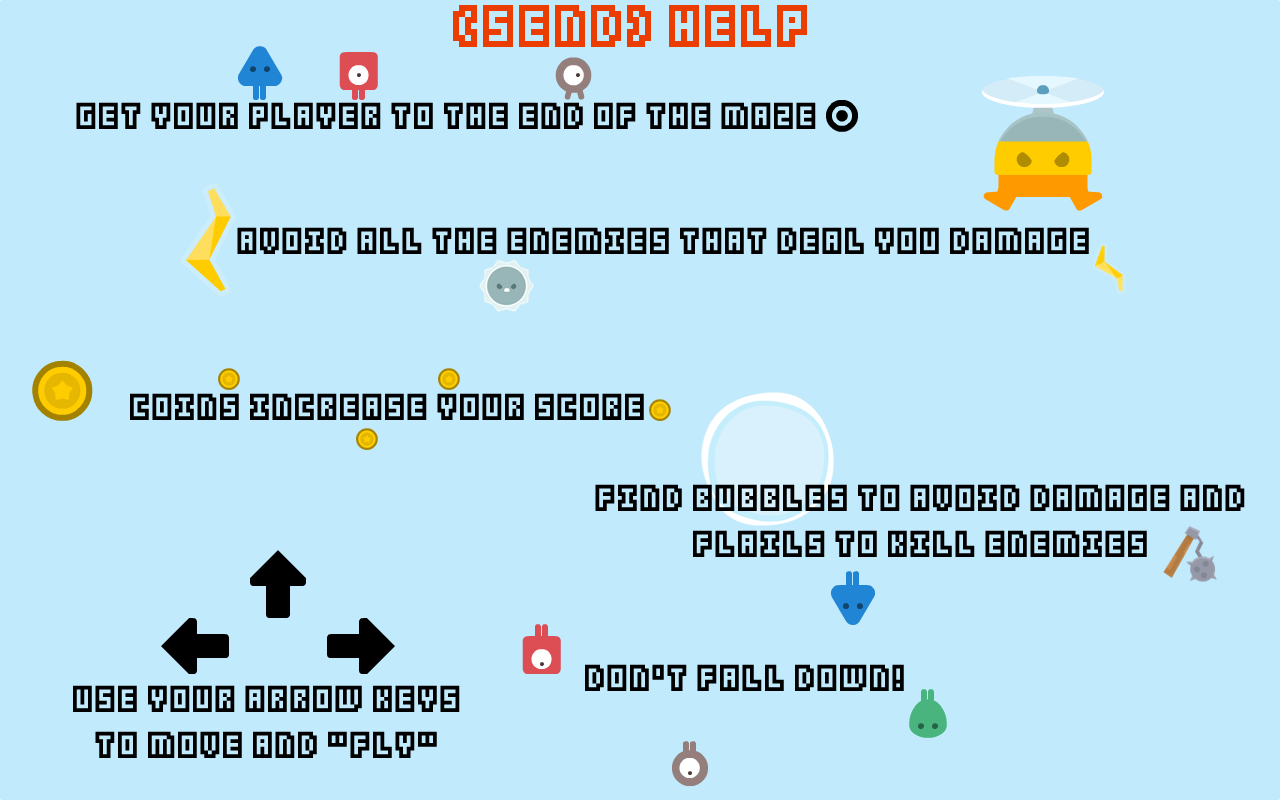
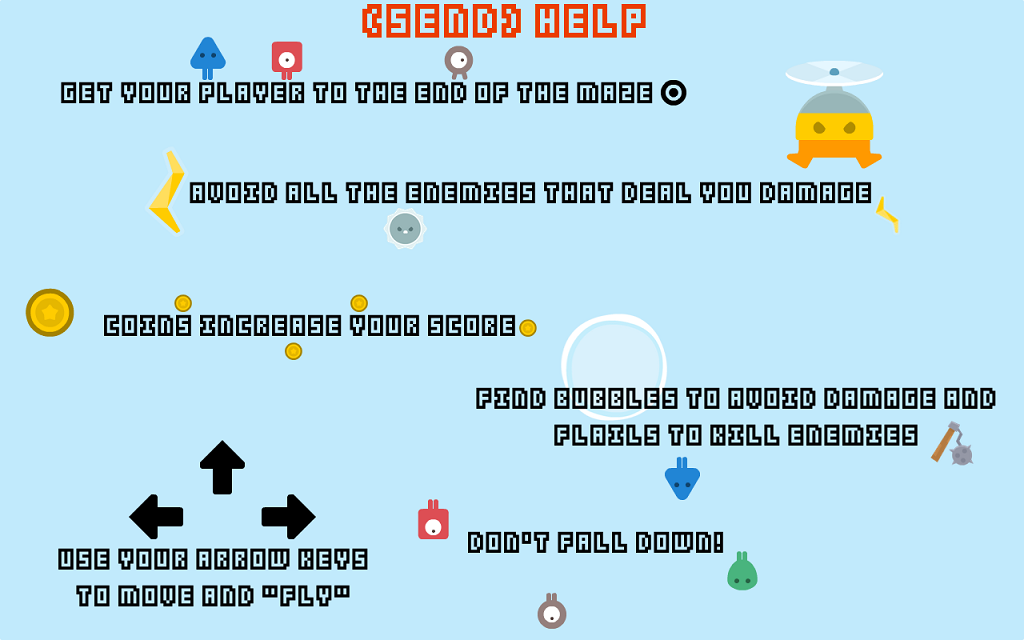
help screen works

diff --git a/src/HelpPanel.java b/src/HelpPanel.java
@@ -1,10 +1,10 @@
+import java.awt.Color;
 import java.awt.Dimension;
-import java.awt.FlowLayout;
 import java.awt.Graphics;
 import java.awt.Image;
 import java.awt.Toolkit;
-import java.io.IOException;
-import java.awt.Color;
+import java.awt.event.MouseAdapter;
+import java.awt.event.MouseEvent;
 
 import javax.swing.Box;
 import javax.swing.BoxLayout;
@@ -15,21 +15,42 @@ import javax.swing.JPanel;
 @SuppressWarnings("serial")
 public class HelpPanel extends JPanel{
 	private JButton back;
-	Image background;
+	private Image background;
+	private int width;
+	private int height;
 	
 	public HelpPanel() {
 		this.background = Toolkit.getDefaultToolkit().getImage("res/gui/helpScreen.png");
-		this.setPreferredSize(new Dimension(1280, 800));
+		this.width = 1024;
+		this.height = 640;
+		this.setPreferredSize(new Dimension(width, height));
 		this.setLayout(new BoxLayout(this, BoxLayout.Y_AXIS));
 		this.back = new JButton(new ImageIcon("res/gui/backButtonDefault.png"));
-		Color UIcolor = new Color(181, 229, 251);
-		this.setBackground(UIcolor);
-
+		
+		//set back button's appearance
+		back.setBorderPainted(false);
+		back.setBackground(new Color(181, 227, 251));
+		
+	    back.addMouseListener(new MouseAdapter() {
+			public void mouseEntered(MouseEvent e) {
+				ImageIcon i = new ImageIcon("res/gui/backButtonHover.png");
+			    back.setIcon(i);
+			}
+		});
 	    
+	    back.addMouseListener(new MouseAdapter() {
+			@Override
+			public void mouseExited(MouseEvent e) {
+				ImageIcon i = new ImageIcon("res/gui/backButtonDefault.png");
+			    back.setIcon(i);
+			}
+		});
+		
 	    // sets button size and adds it in the bottom right corner
 	    Dimension buttonSize = new Dimension(160,40);
 	    back.setMaximumSize(buttonSize);
-	    
+	    back.setAlignmentX(BOTTOM_ALIGNMENT);
+	    back.setAlignmentY(RIGHT_ALIGNMENT);
 	    add(back);
 	}
 	

diff --git a/src/UIFrame.java b/src/UIFrame.java
@@ -62,8 +62,7 @@ public class UIFrame extends JFrame {
 		
 		helpScreen.getBackButton().addActionListener(new ActionListener() {
 			public void actionPerformed(ActionEvent e) {
-				initFrame();
-				runGameScreen();
+				runMenuScreen();
 			}
 		});	
 	}	
